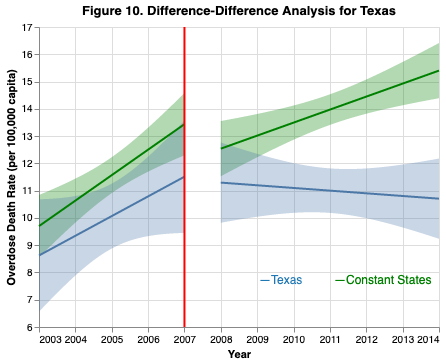
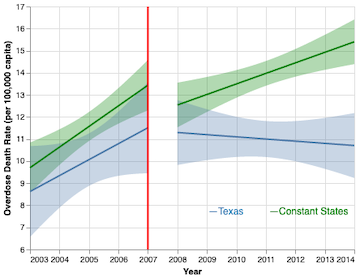
change image size

Changed region(s): [[0.0, 0.0, 1.0, 1.0]]

diff --git a/portfolio.html b/portfolio.html
@@ -123,27 +123,7 @@
 					</ul>
 				</article>
 
-				<article>
-					<header>
-						<h2><a>Markov chain generator</a></h2>
-					</header>
-					<a href="https://github.com/Emmawang00/Diff_Diff_Analysis_Opioids" class="image fit"><img
-							src="images/TX_death_diff.png" title="Analysis of diff-diff" alt="" /></a>
-					<p>Using 400M+ rows of data, the project examines the effectiveness of interventions in the State’s
-						Opioids policies in lowering the volume of opioids prescription and the rate of drug overdose
-						mortality. Pre-Post analysis is first conducted to examine the difference in opioids
-						prescription and mortality rate between pre-policy and post-policy era. However, even if the
-						trend is different, we cannot be sure the difference is caused by the policy and not other
-						factors. Thus, differnece-in-difference analysis is conducted. This method allows us to compare
-						the change in opioids prescription and mortality rate in the state where the policy was enacted,
-						with a hypothetical parallel universe where the policy was not enacted. Overall, the project
-						provides evidence-based recommendations on the effectiveness of the State's Opioids policies,
-						and to inform future policy decisions on opioid use and abuse.</p>
-					<ul class="actions special">
-						<li><a href="https://github.com/Emmawang00/Diff_Diff_Analysis_Opioids" class="button">Learn
-								More</a></li>
-					</ul>
-				</article>
+
 
 			</section>
 
